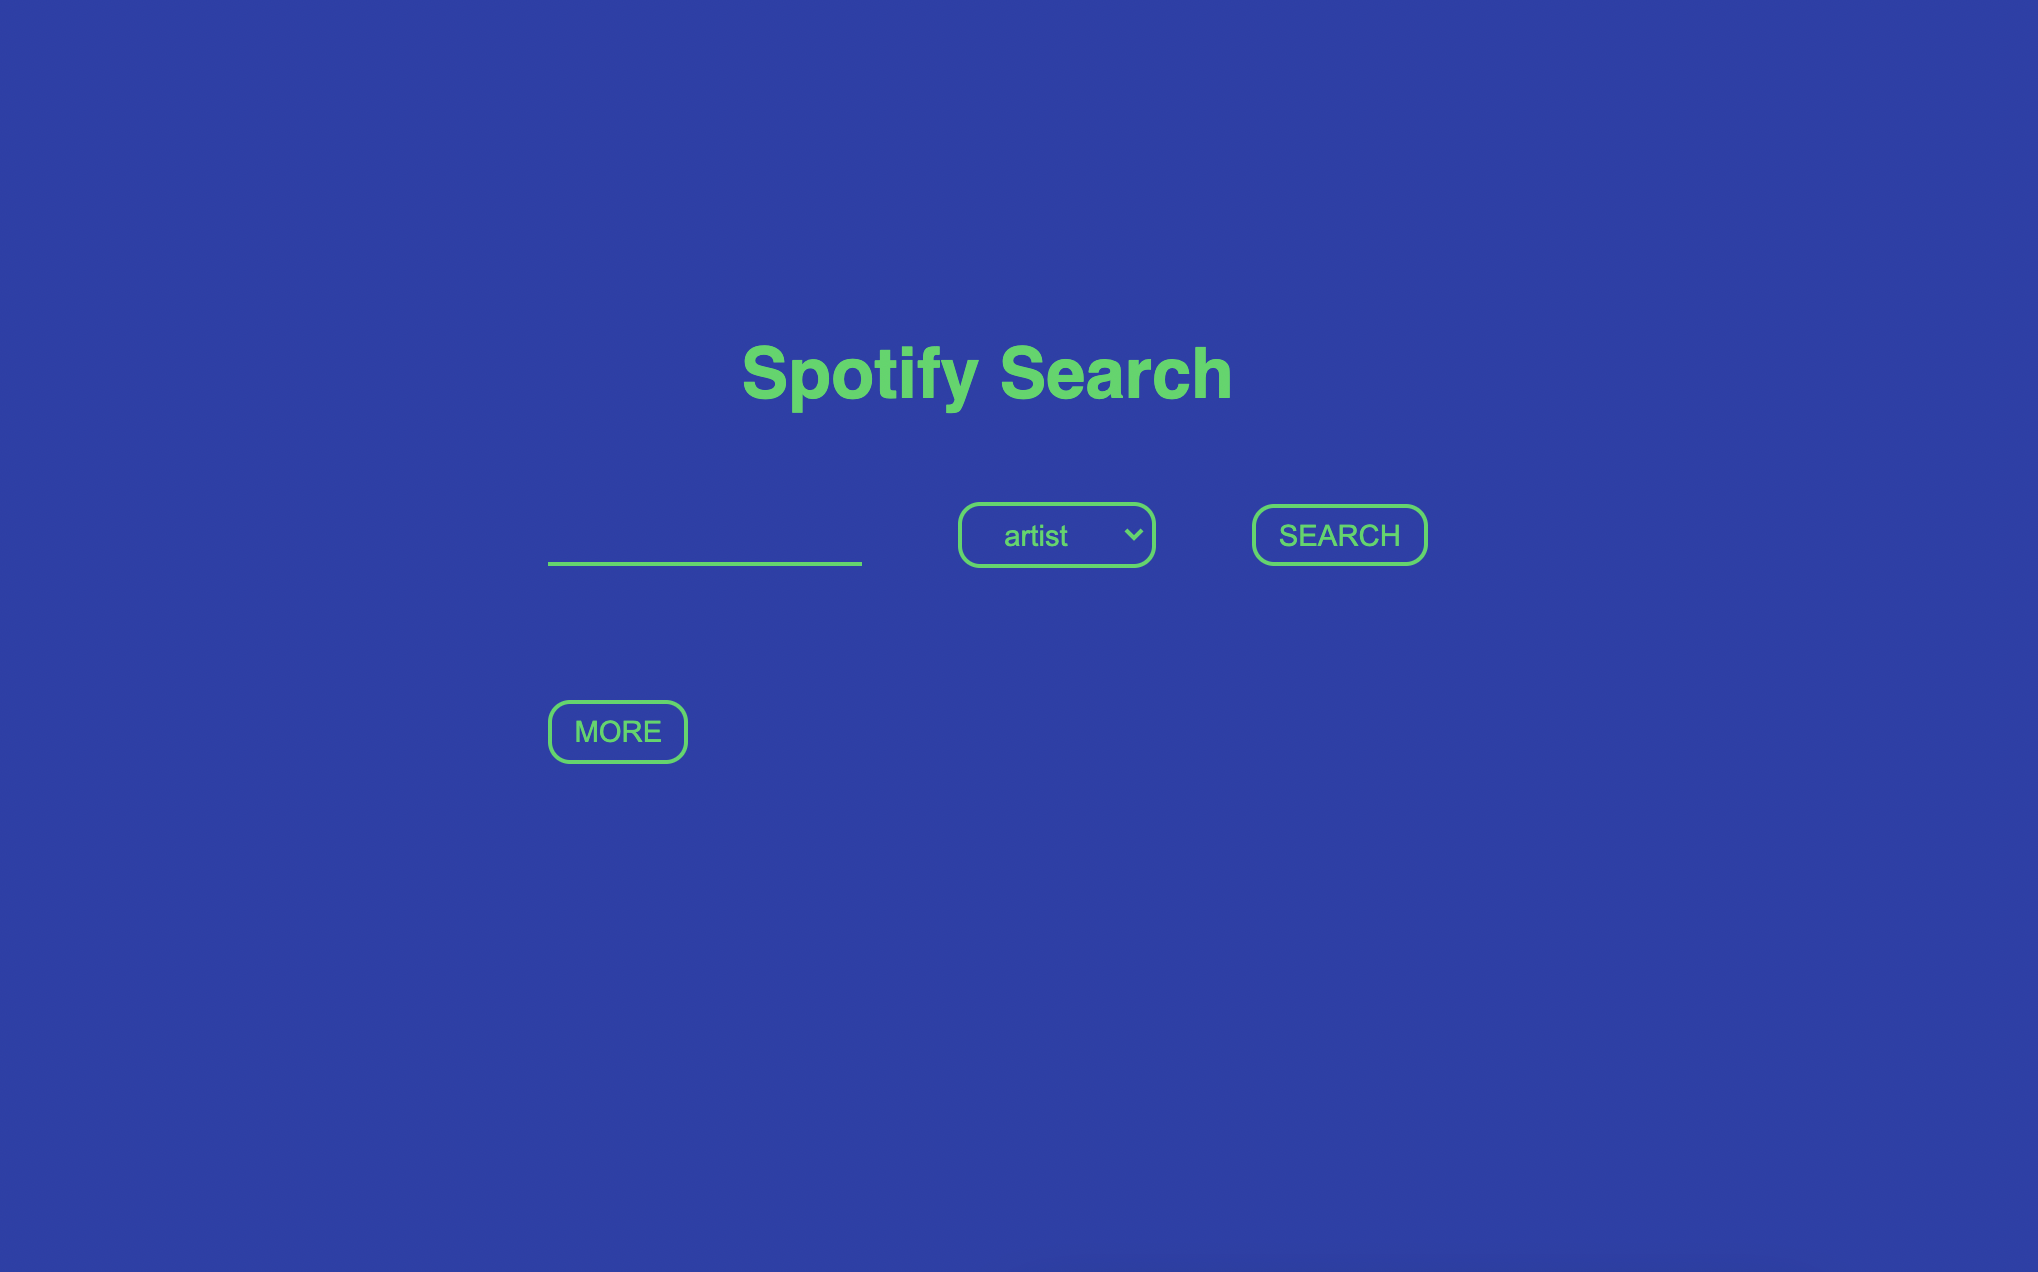
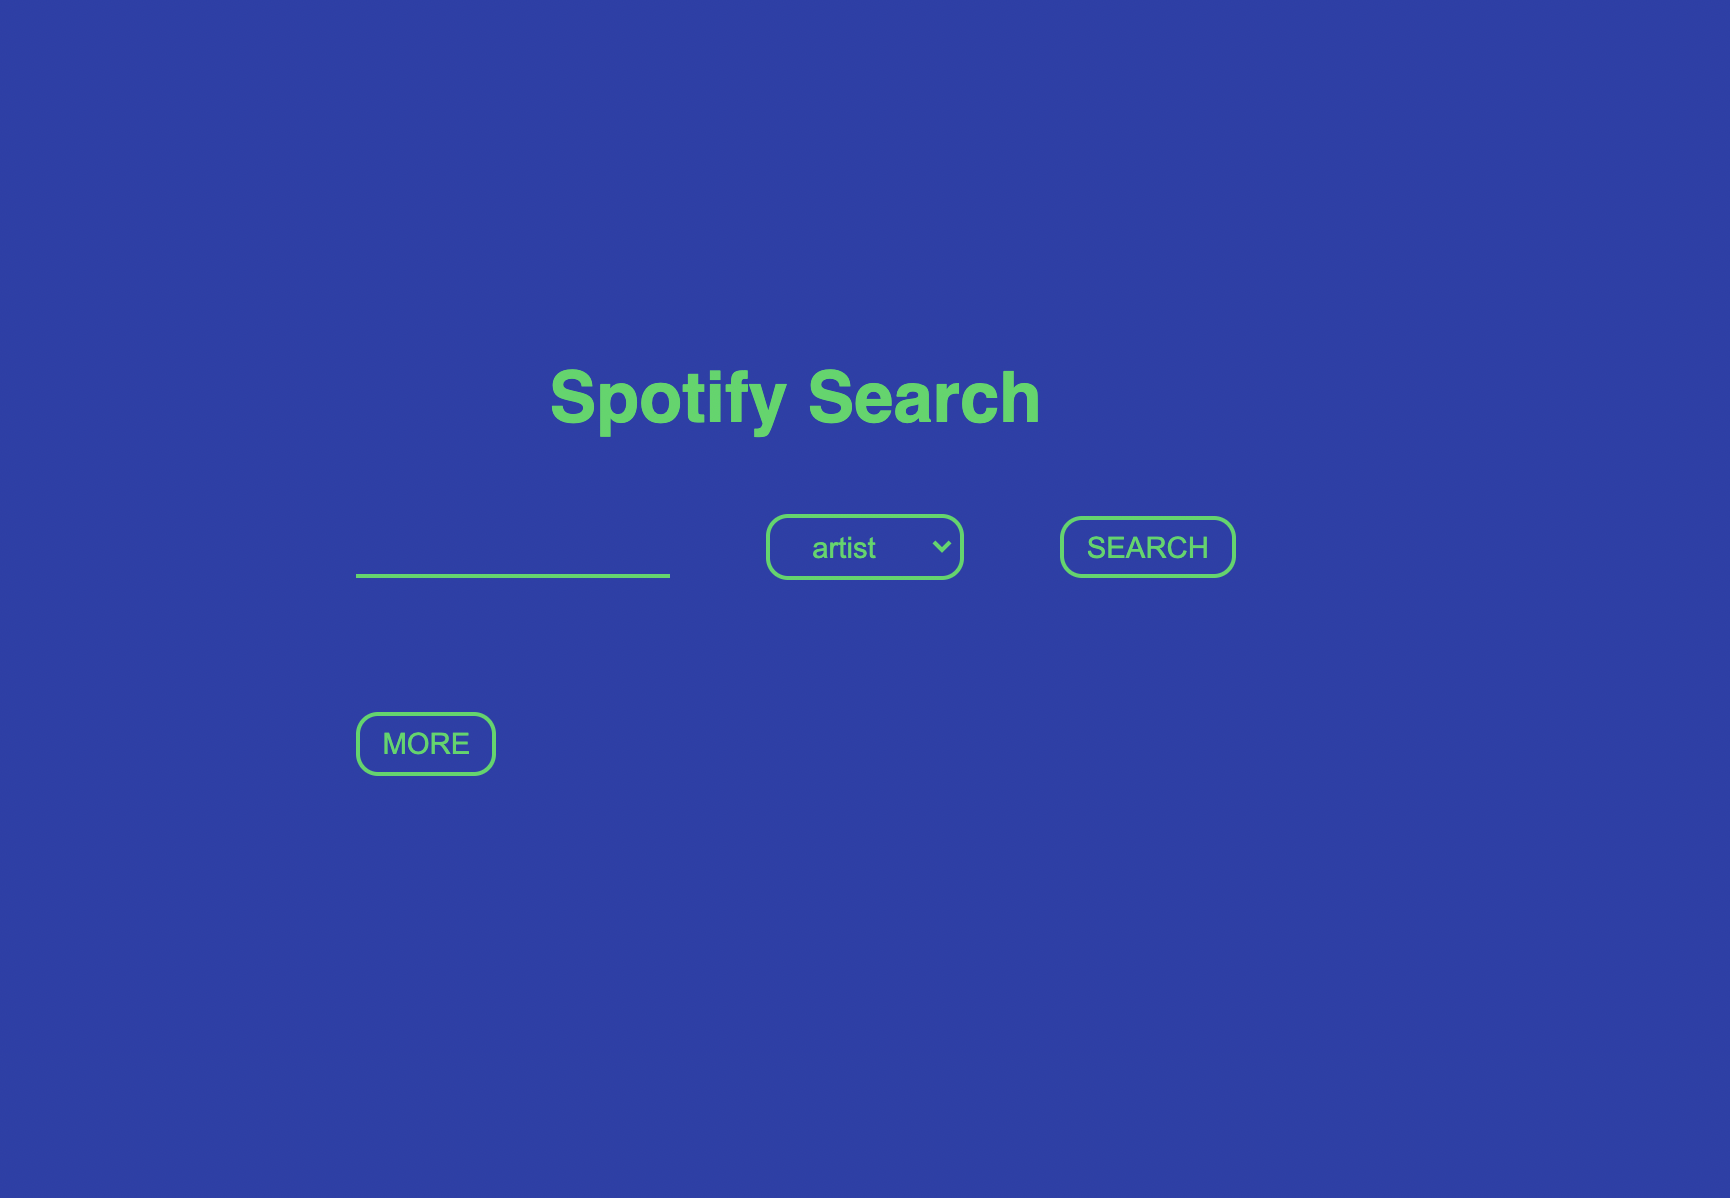
handlebars done

diff --git a/Express-Handlebars/server/server.js b/Express-Handlebars/server/server.js
@@ -2,6 +2,7 @@ const PORT = 8080;
 const express = require("express");
 const hb = require("express-handlebars");
 const path = require("path");
+// const { mainModule } = require("process");
 const app = express();
 const projects = require("./projects.json");
 
@@ -16,10 +17,50 @@ app.use(express.static("./project"));
 
 app.get("/", (req, res) => {
     res.render("home", {
-        name: "project",
-        message: "Welcome!",
         projects,
     });
 });
+app.get("/projects/:project", (req, res) => {
+    console.log(req.params.project);
+    const projToFind = req.params.project;
 
+    const selectedProj = projects.find((proj) => proj.directory === projToFind);
+    console.log("Project found", selectedProj);
+    if (!selectedProj) {
+        return res.sendStatus(404);
+    } else {
+        console.log("we have a project to server");
+        res.render("description", {
+            selectedProj,
+            projects,
+            layout: "main",
+            title: "My Projects",
+            text: "Minhas mensagens especiais",
+            footer: "Designed by cdeluchi",
+        });
+    }
+});
+
+app.get("/projects/:muffin", (req, res) => {
+    // res.send(req.params);
+    console.log("****", req.params);
+    res.send("server handle this request");
+    // const arrProjects = req(params.projects);
+    // const projToFind = arrProjects;
+    // const selectedProj = arrProjects.find(
+    //     (proj) => proj.directory === projToFind
+    // );
+    // if (!selectedProj) {
+    //     return res.send.status(404);
+    // } else {
+    //     res.render("description", {
+    //         projects,
+    //         layout: "main",
+    //         title: "My Projects",
+    //         text: "Something about this project",
+    //         footer: "Designed by cdeluchi",
+    //     });
+    //     console.log(res.send.status(404));
+    // }
+});
 app.listen(PORT, () => console.log(`Listening on ${PORT}...`));

diff --git a/Express-Handlebars/public/style.css b/Express-Handlebars/public/style.css
@@ -1,11 +1,23 @@
 * {
     box-sizing: border-box;
-    background-color: #fdded0;
     font-family: sans-serif;
     margin: 15px;
 }
 body {
+    margin: 15px;
+
     border: 1px solid violet;
+    background: #ddd6f3; /* fallback for old browsers */
+    background: -webkit-linear-gradient(
+        to top,
+        #faaca8,
+        #ddd6f3
+    ); /* Chrome 10-25, Safari 5.1-6 */
+    background: linear-gradient(
+        to top,
+        #faaca8,
+        #ddd6f3
+    ); /* W3C, IE 10+/ Edge, Firefox 16+, Chrome 26+, Opera 12+, Safari 7+ */
 }
 h1 {
     text-align: center;
@@ -15,7 +27,7 @@ h2 {
     text-align: center;
     color: #290fba;
 }
-#projects {
+#projects-list {
     display: flex;
     justify-content: space-between;
     align-items: center;
@@ -25,9 +37,9 @@ img {
     border: 3px solid #8236cb;
     border-radius: 5px;
 }
+
 a {
     text-decoration: none;
-    text-align: center;
     font-size: 8px;
 }
 footer {

diff --git a/Express-Handlebars/project/spotify/style.css b/Express-Handlebars/project/spotify/style.css
@@ -4,6 +4,17 @@
     background-color: #2940ab;
     color: #1bd760;
 }
+body {
+    display: inline-flex;
+    justify-content: center;
+    align-items: center;
+    margin: 150px 200px;
+}
+h1 {
+    font-family: sans-serif;
+    text-align: center;
+    margin: 15px;
+}
 input {
     padding: 5px;
     border-top: none;

diff --git a/Express-Handlebars/project/spotify/index.html b/Express-Handlebars/project/spotify/index.html
@@ -9,6 +9,7 @@
 </head>
 <div class="container">
 <body>
+    <h1>Spotify Search</h1>
     <input type="text" name="user-input">
     <select>
         <!-- make sure album / artist is lowercase and singular -->
